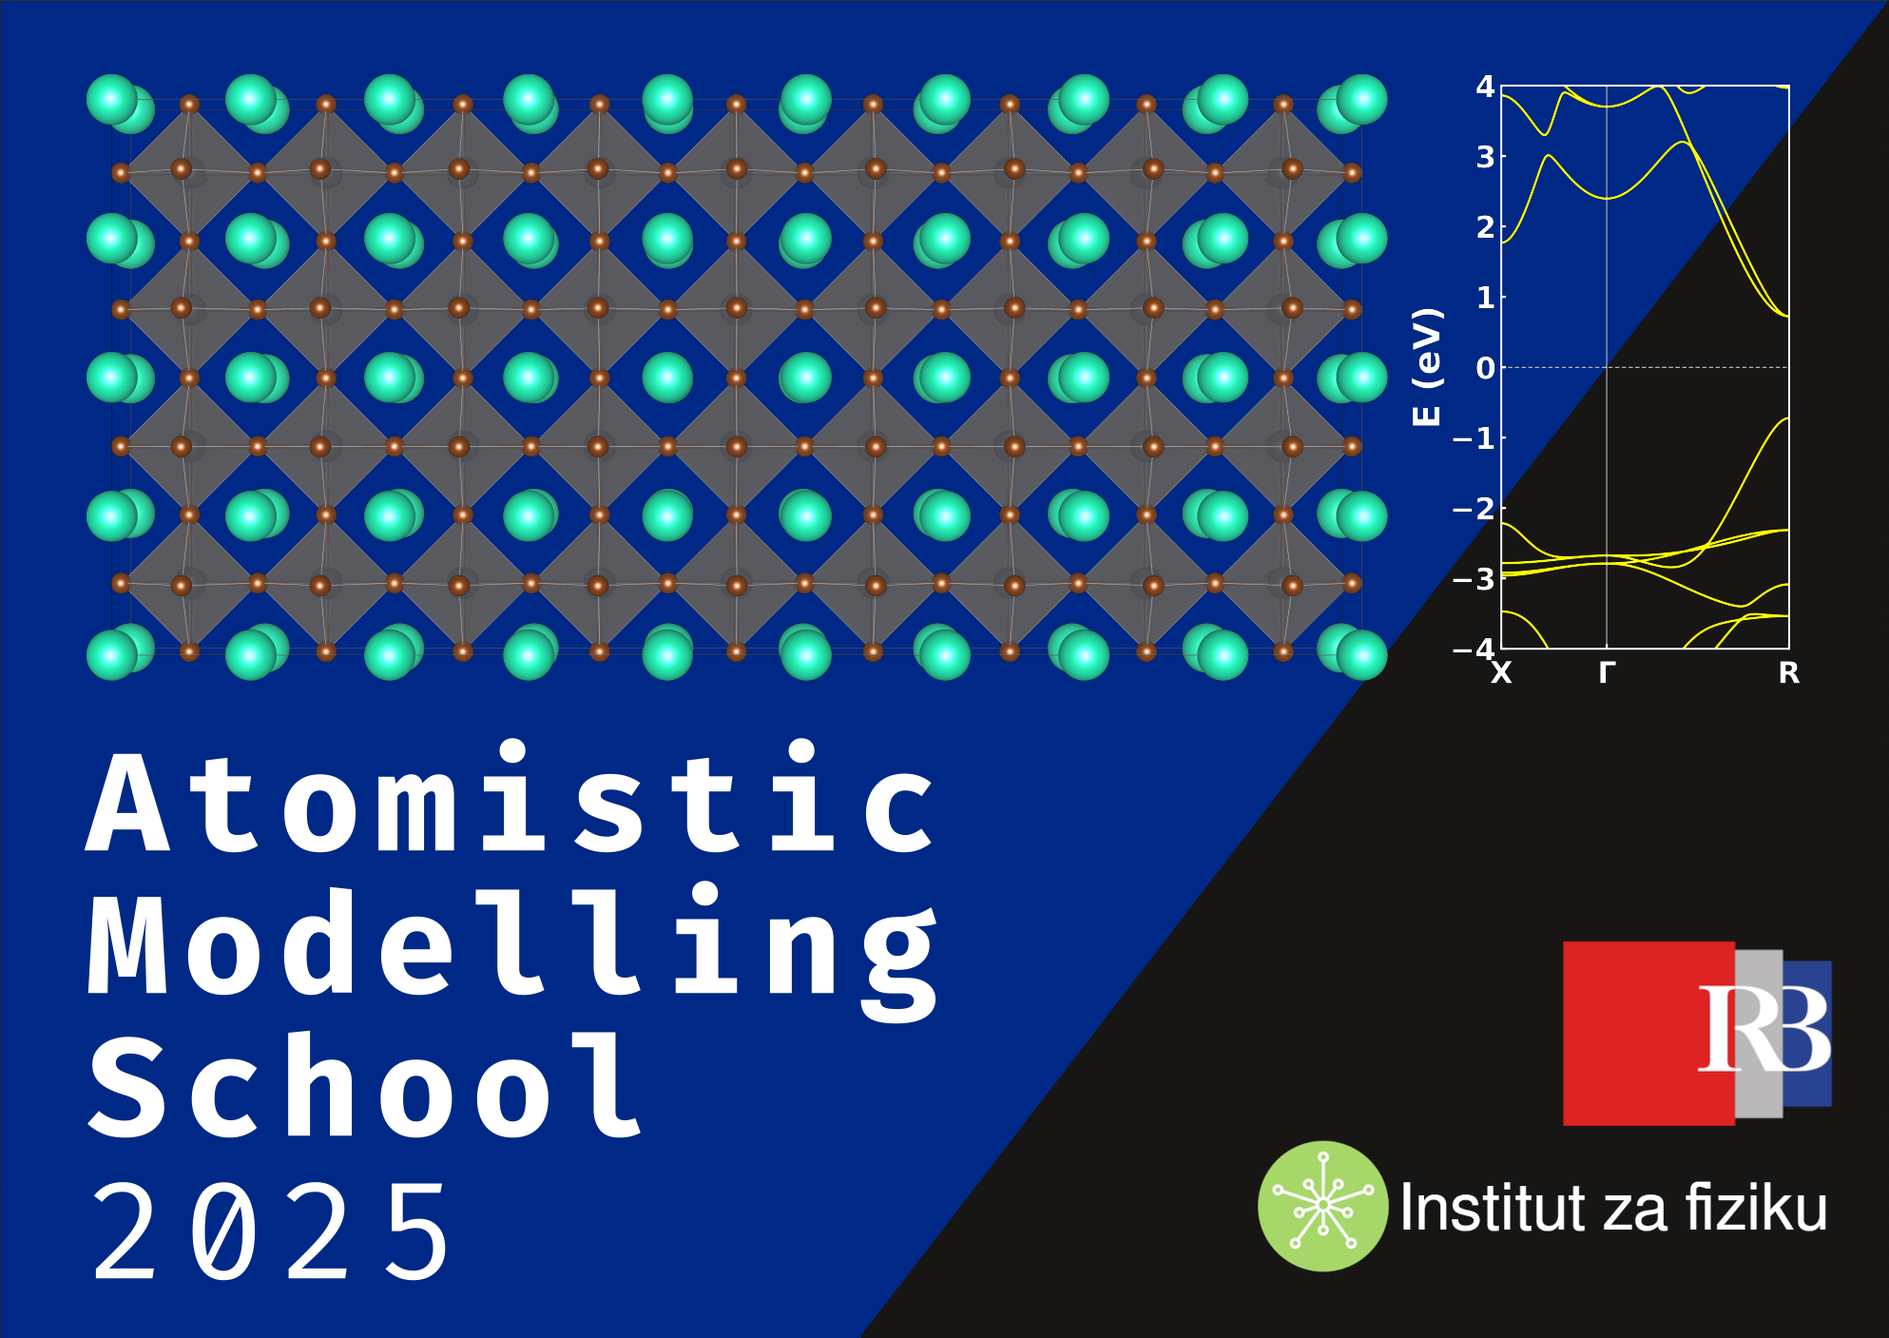
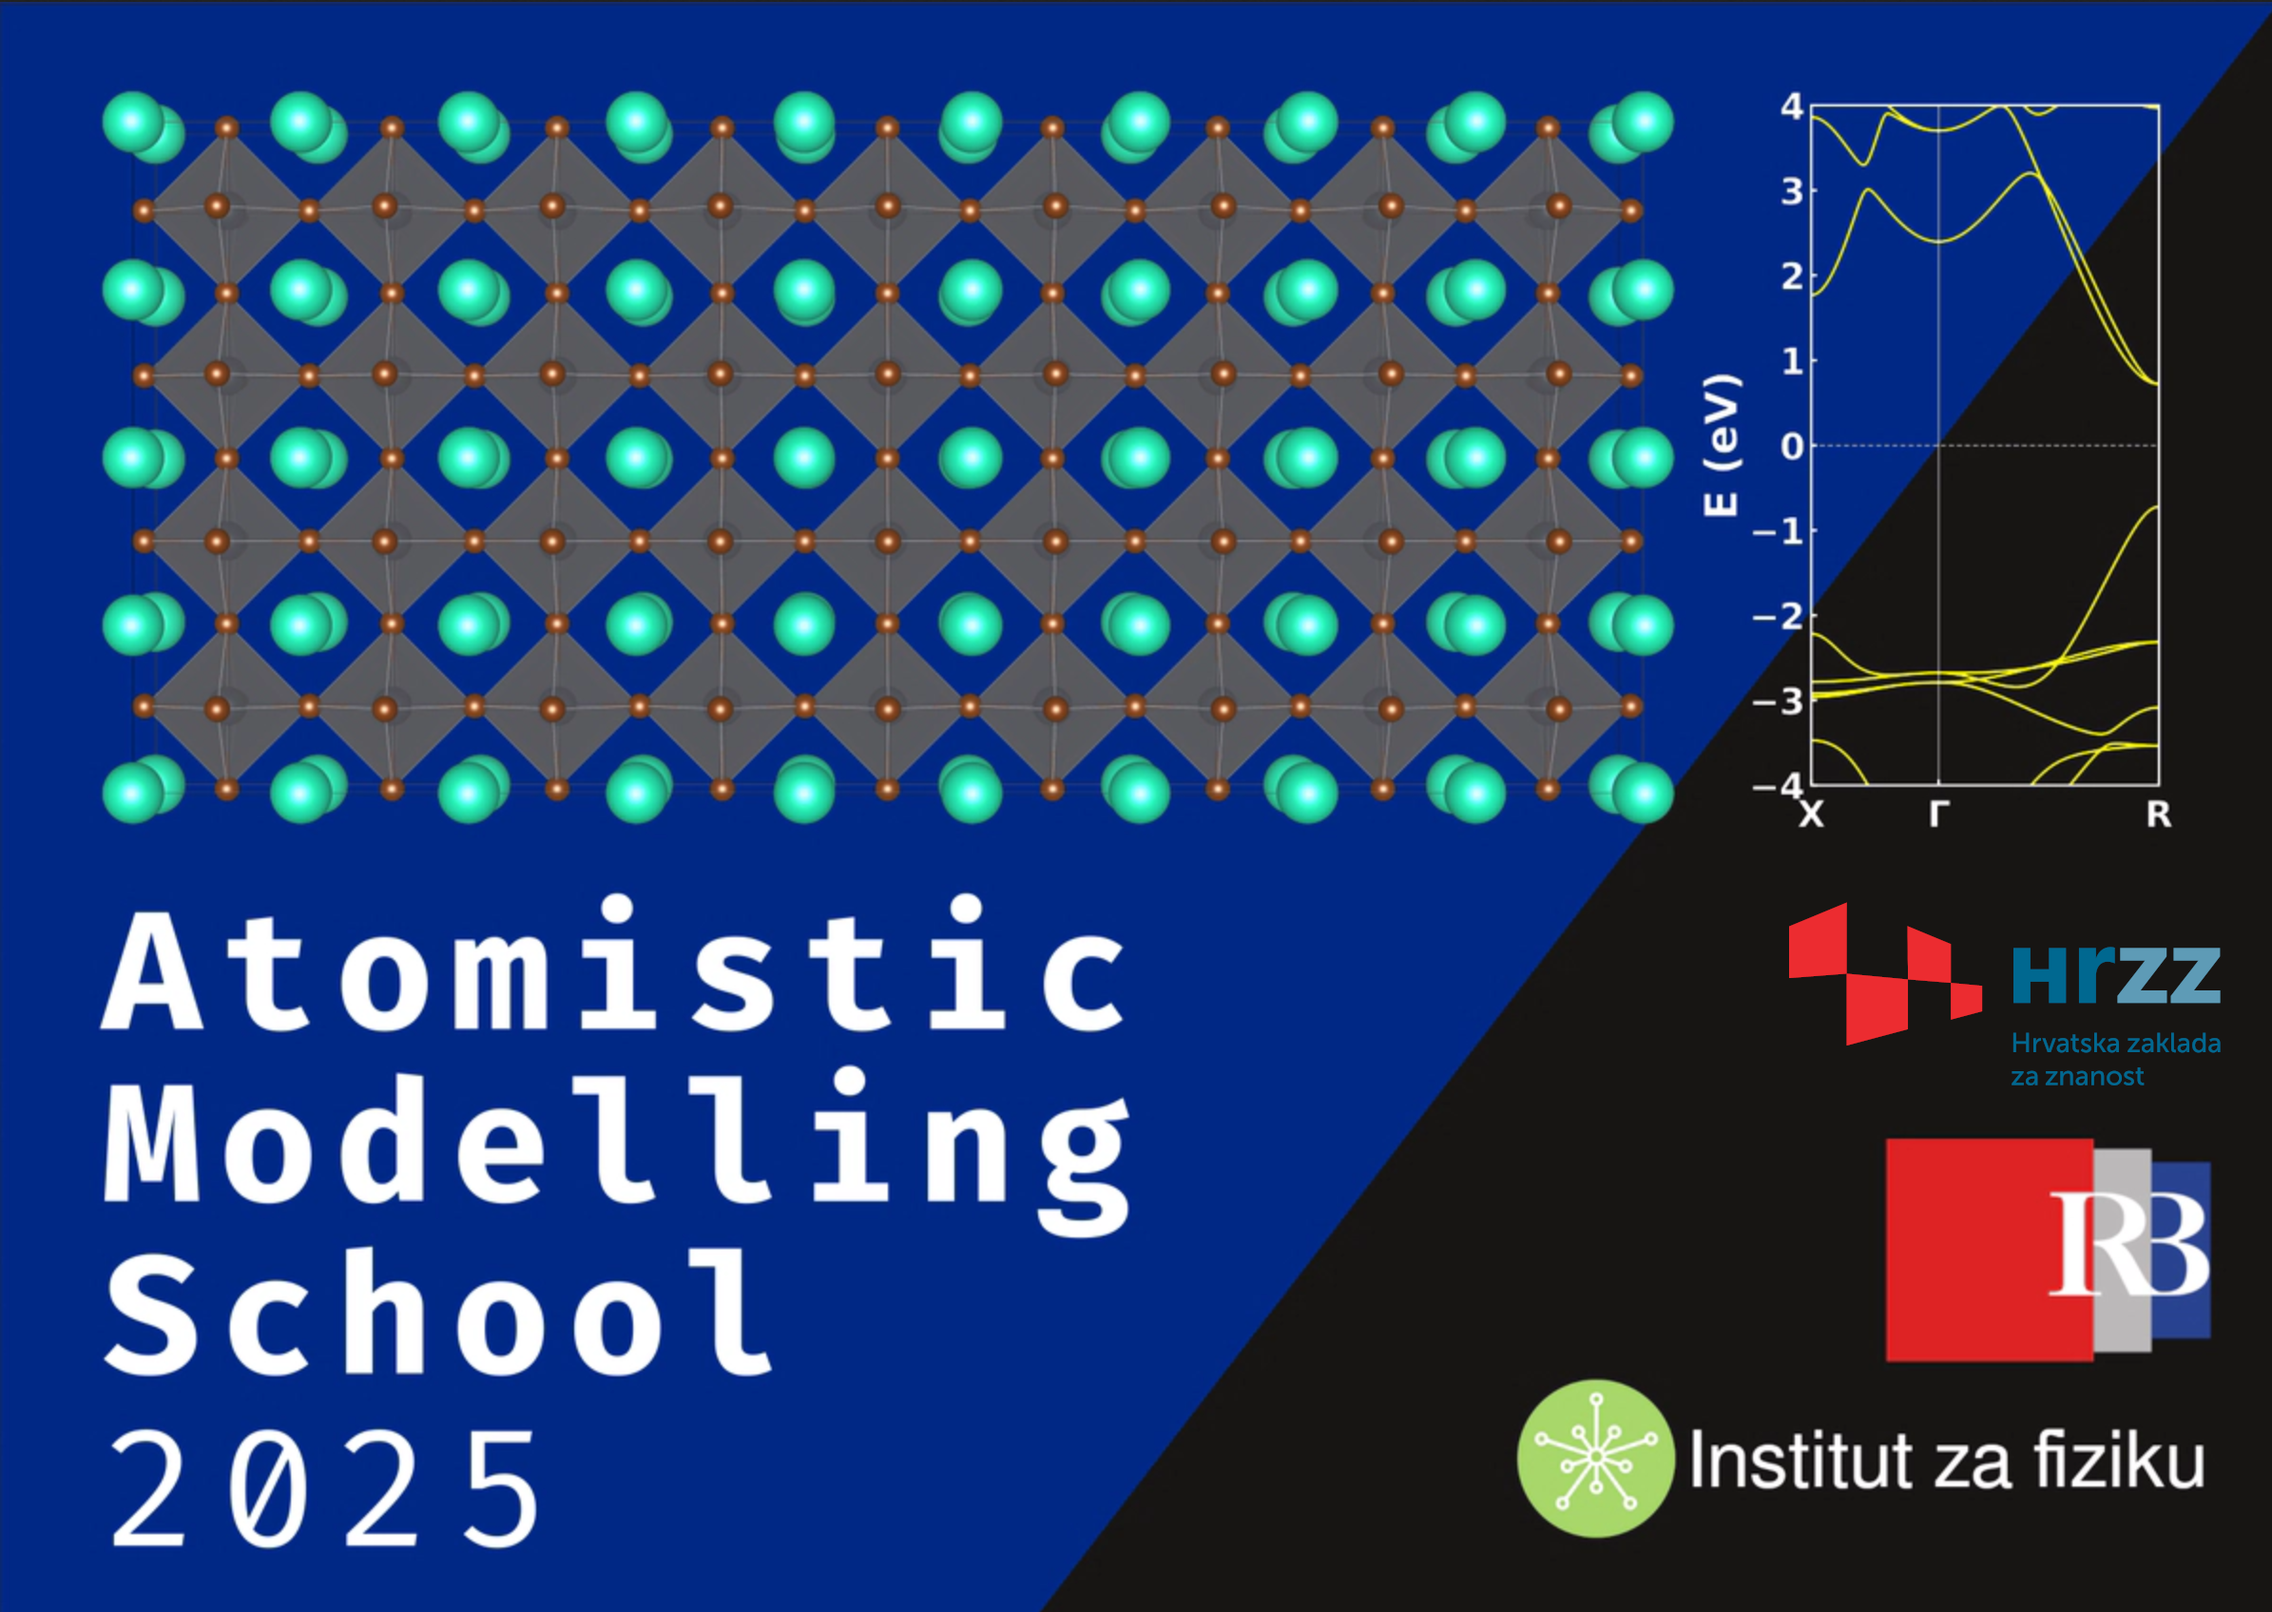
CONTENT: Add acknowledgement

diff --git a/content/teaching/ams25/index.md b/content/teaching/ams25/index.md
@@ -233,7 +233,7 @@ to attend the hands-on sessions, send an email to <Juraj.Ovcar@irb.hr>.
 ---
 
 **AMS25** is organized by the members of the [**Modelling and Theory of Materials Group**](/people)
-at the [Ruđer Bošković institute](https://www.irb.hr/eng) in collaboration with the [Institute of Physics](https://ifs.hr).
+at the [Ruđer Bošković institute](https://www.irb.hr/eng) in collaboration with the [Institute of Physics](https://ifs.hr) and with support from the Croatian Science Foundation under the project UIP-2020-02-5675.
 
 # Resources
 ---
